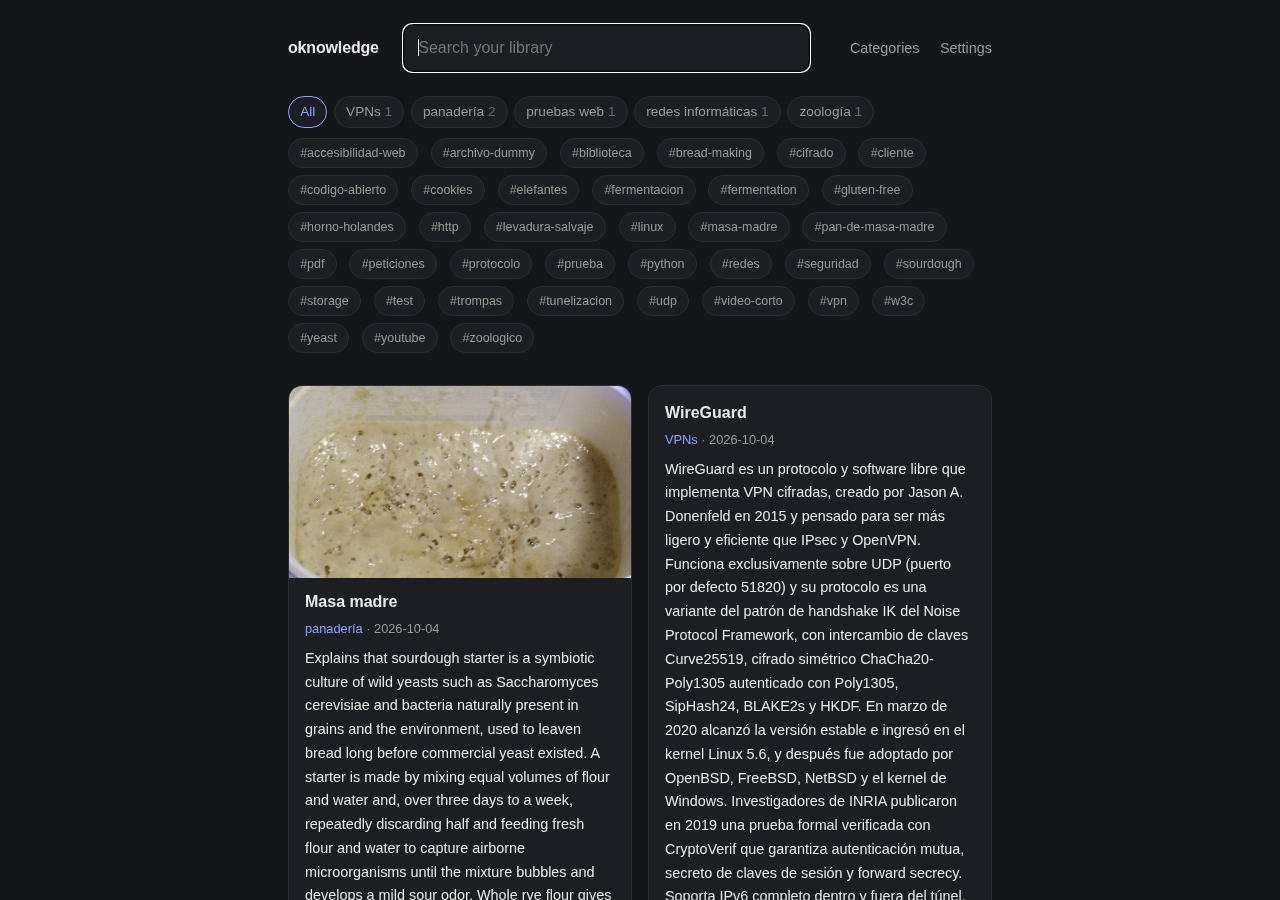
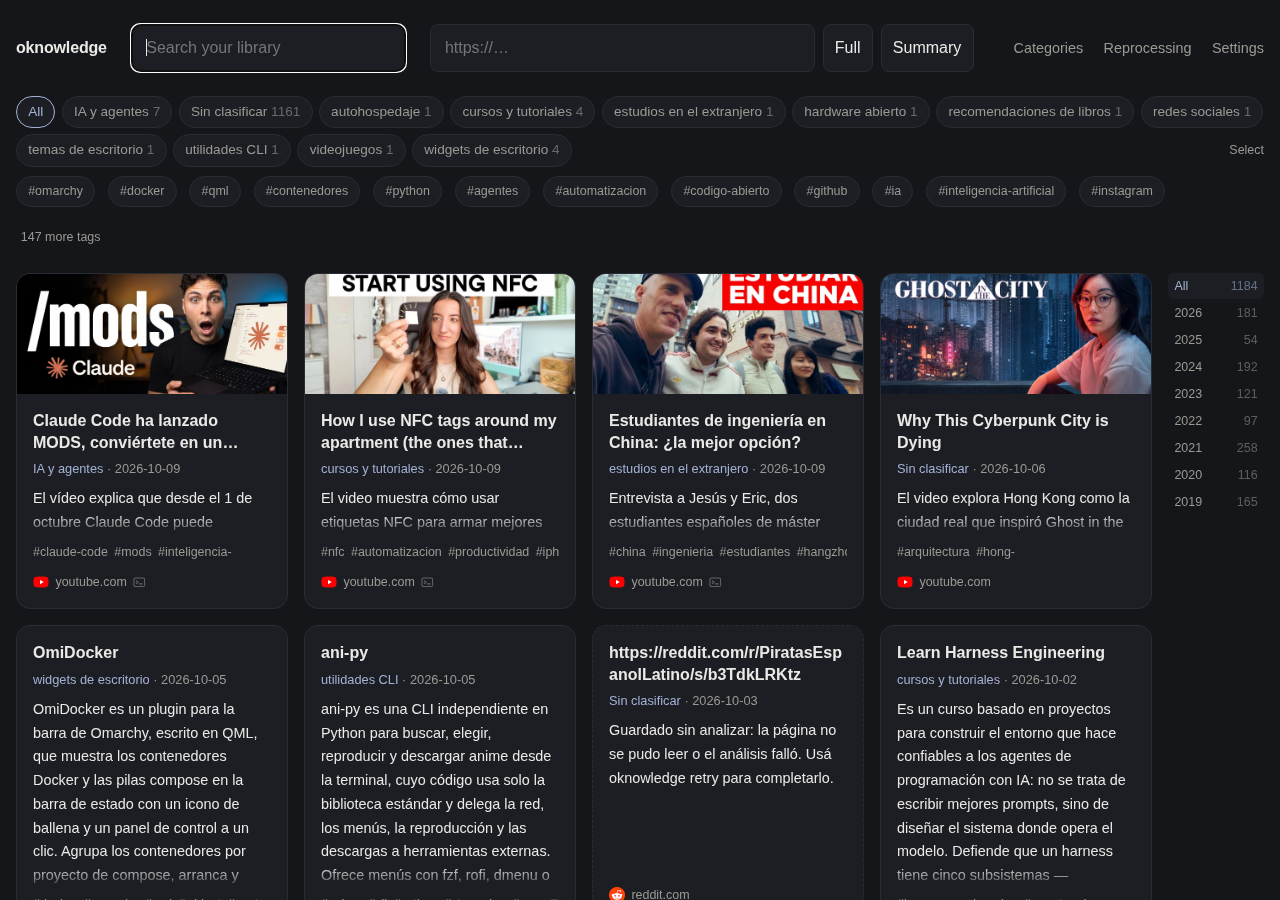
docs: a picture that has the paste box in it

diff --git a/README.md b/README.md
@@ -7,8 +7,6 @@ library from a page in your own browser.
 
 ![The library](preview.png)
 
-*(The paste box in the header is newer than this picture.)*
-
 **This is a fork of oknowledge for people without
 [Omarchy](https://omarchy.org/).** The original is a Linux tool
 with a panel in the system bar; everything that needed that bar — or needed
